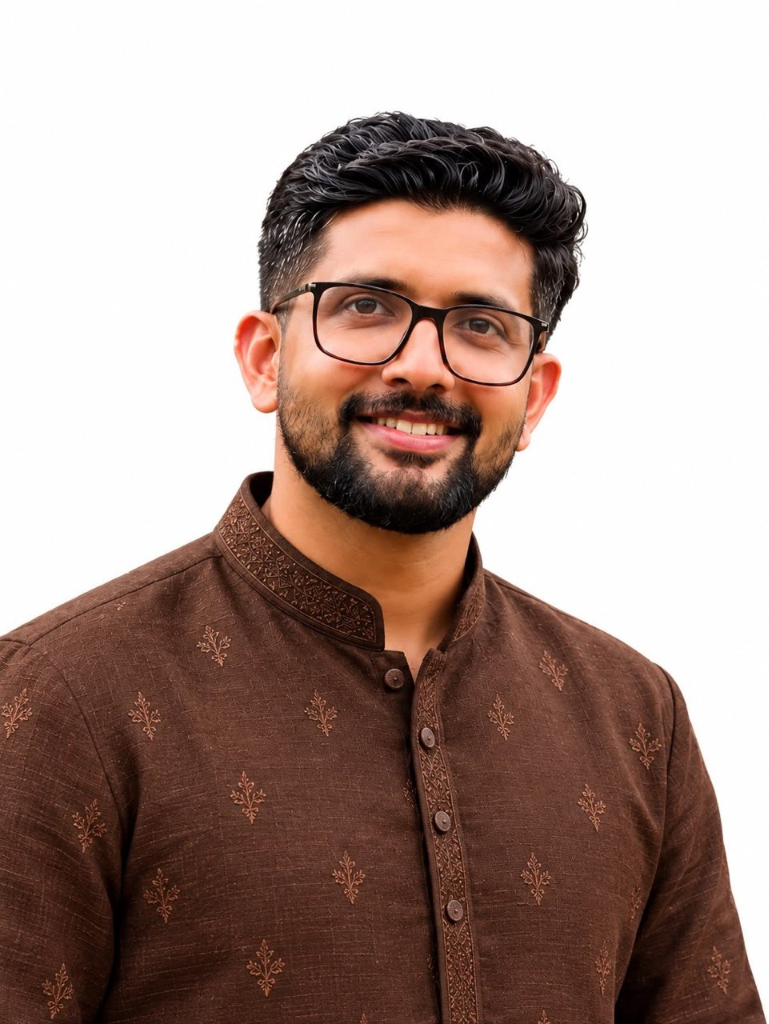
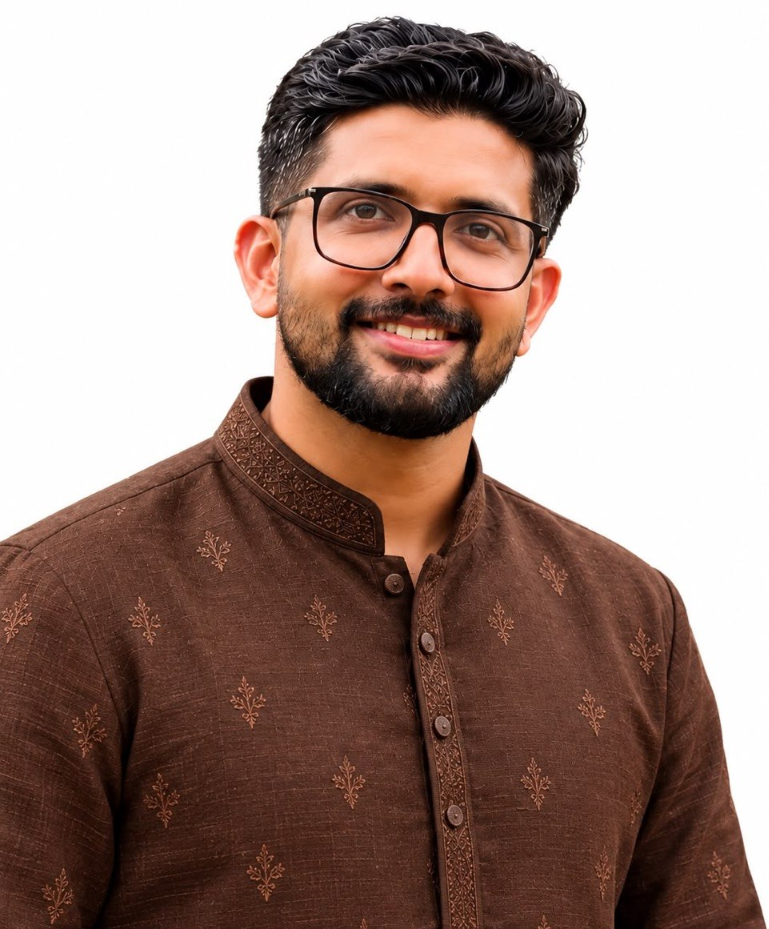
Update cover title to Wedding Reception Invitation, adjust groom photo alignment, unbold contact phone, and update Warmly Invited by to Athul & Midhula

diff --git a/index.html b/index.html
@@ -3,10 +3,10 @@
   <head>
     <meta charset="UTF-8" />
     <meta name="viewport" content="width=device-width, initial-scale=1.0, viewport-fit=cover" />
-    <title>Athul Krishna &amp; Midhula Balan · Wedding Invitation</title>
+    <title>Athul Krishna &amp; Midhula Balan · Wedding Reception Invitation</title>
     <meta
       name="description"
-      content="Late. Shri. Radhakrishnan T &amp; Smt. Mini K M cordially invite you to celebrate the marriage and reception of Athul Krishna with Midhula Balan on 5 &amp; 6 December 2026."
+      content="Athul Krishna &amp; Midhula Balan cordially invite you to celebrate their wedding reception on 06 December 2026 at Kozhikode."
     />
     <link rel="icon" type="image/x-icon" href="/favicon.ico" />
     <link rel="preconnect" href="https://fonts.googleapis.com" />
@@ -18,28 +18,28 @@
 
     <!-- Open Graph / WhatsApp / Facebook -->
     <meta property="og:type" content="website" />
-    <meta property="og:title" content="Athul Krishna &amp; Midhula Balan · Wedding Invitation" />
+    <meta property="og:title" content="Athul Krishna &amp; Midhula Balan · Wedding Reception Invitation" />
     <meta
       property="og:description"
-      content="Late. Shri. Radhakrishnan T &amp; Smt. Mini K M cordially invite you to celebrate the marriage and reception of Athul Krishna with Midhula Balan on 5 &amp; 6 December 2026."
+      content="Athul Krishna &amp; Midhula Balan cordially invite you to celebrate their wedding reception on 06 December 2026 at Kozhikode."
     />
     <meta property="og:image" content="/og-image.png" />
     <meta property="og:image:secure_url" content="/og-image.png" />
     <meta property="og:image:type" content="image/png" />
     <meta property="og:image:width" content="1200" />
     <meta property="og:image:height" content="630" />
-    <meta property="og:image:alt" content="Athul Krishna &amp; Midhula Balan Wedding Invitation" />
+    <meta property="og:image:alt" content="Athul Krishna &amp; Midhula Balan Wedding Reception Invitation" />
     <meta property="og:site_name" content="InviteStory" />
 
     <!-- Twitter / X -->
     <meta name="twitter:card" content="summary_large_image" />
-    <meta name="twitter:title" content="Athul Krishna &amp; Midhula Balan · Wedding Invitation" />
+    <meta name="twitter:title" content="Athul Krishna &amp; Midhula Balan · Wedding Reception Invitation" />
     <meta
       name="twitter:description"
-      content="Late. Shri. Radhakrishnan T &amp; Smt. Mini K M cordially invite you to celebrate the marriage and reception of Athul Krishna with Midhula Balan on 5 &amp; 6 December 2026."
+      content="Athul Krishna &amp; Midhula Balan cordially invite you to celebrate their wedding reception on 06 December 2026 at Kozhikode."
     />
     <meta name="twitter:image" content="/og-image.png" />
-    <meta name="twitter:image:alt" content="Athul Krishna &amp; Midhula Balan Wedding Invitation" />
+    <meta name="twitter:image:alt" content="Athul Krishna &amp; Midhula Balan Wedding Reception Invitation" />
   </head>
   <body>
     <div id="root"></div>

diff --git a/src/routes/__root.tsx b/src/routes/__root.tsx
@@ -77,31 +77,31 @@ export const Route = createRootRouteWithContext<{ queryClient: QueryClient }>()(
     meta: [
       { charSet: "utf-8" },
       { name: "viewport", content: "width=device-width, initial-scale=1" },
-      { title: "Athul Krishna & Midhula Balan · Wedding Invitation" },
+      { title: "Athul Krishna & Midhula Balan · Wedding Reception Invitation" },
       {
         name: "description",
         content:
-          "Late. Shri. Radhakrishnan T & Smt. Mini K M cordially invite you to celebrate the marriage and reception of Athul Krishna with Midhula Balan on 5 & 6 December 2026.",
+          "Athul Krishna & Midhula Balan cordially invite you to celebrate their wedding reception on 06 December 2026 at Kozhikode.",
       },
       { name: "author", content: "InviteStory" },
-      { property: "og:title", content: "Athul Krishna & Midhula Balan · Wedding Invitation" },
+      { property: "og:title", content: "Athul Krishna & Midhula Balan · Wedding Reception Invitation" },
       {
         property: "og:description",
         content:
-          "Late. Shri. Radhakrishnan T & Smt. Mini K M cordially invite you to celebrate the marriage and reception of Athul Krishna with Midhula Balan on 5 & 6 December 2026.",
+          "Athul Krishna & Midhula Balan cordially invite you to celebrate their wedding reception on 06 December 2026 at Kozhikode.",
       },
       { property: "og:type", content: "website" },
       { property: "og:image", content: "/og-image.png" },
       { property: "og:image:width", content: "1200" },
       { property: "og:image:height", content: "630" },
-      { property: "og:image:alt", content: "Athul Krishna & Midhula Balan Wedding Invitation" },
+      { property: "og:image:alt", content: "Athul Krishna & Midhula Balan Wedding Reception Invitation" },
       { name: "twitter:card", content: "summary_large_image" },
       { name: "twitter:site", content: "@invitestory.in" },
-      { name: "twitter:title", content: "Athul Krishna & Midhula Balan · Wedding Invitation" },
+      { name: "twitter:title", content: "Athul Krishna & Midhula Balan · Wedding Reception Invitation" },
       {
         name: "twitter:description",
         content:
-          "Late. Shri. Radhakrishnan T & Smt. Mini K M cordially invite you to celebrate the marriage and reception of Athul Krishna with Midhula Balan on 5 & 6 December 2026.",
+          "Athul Krishna & Midhula Balan cordially invite you to celebrate their wedding reception on 06 December 2026 at Kozhikode.",
       },
       { name: "twitter:image", content: "/og-image.png" },
 

diff --git a/src/components/wedding/Footer.tsx b/src/components/wedding/Footer.tsx
@@ -53,11 +53,9 @@ export function Footer() {
             <p className="text-gold-soft/80 text-[0.62rem] tracking-[0.35em] uppercase font-medium">
               Warmly Invited by
             </p>
-            <p className="text-ivory font-display mt-2 text-xl font-light">
-              {wedding.hosts.names}
-            </p>
-            <p className="text-ivory/65 mt-1.5 text-xs max-w-xs mx-auto leading-relaxed">
-              {wedding.hosts.address}
+            <p className="text-ivory font-display mt-2 text-2xl sm:text-3xl font-light">
+              {wedding.groom.name} <span className="font-script text-gold">&amp;</span>{" "}
+              {wedding.bride.name}
             </p>
 
             <div className="mt-5 flex items-center justify-center gap-3">
@@ -78,27 +76,14 @@ export function Footer() {
                 <span>WhatsApp</span>
               </a>
             </div>
-
-            <div className="mt-5 pt-4 border-t border-gold/15">
-              <p className="text-gold-soft/80 text-[0.58rem] tracking-[0.35em] uppercase">
-                Sharing Happiness
-              </p>
-              <p className="text-ivory font-display mt-1 text-base font-light">
-                {wedding.sharingHappiness}
-              </p>
-            </div>
           </div>
         </Reveal>
 
-        {/* Names & Signature */}
+        {/* Date & Location Footer */}
         <Reveal delay={0.2}>
-          <div className="mt-10 flex flex-col items-center">
+          <div className="mt-8 flex flex-col items-center">
             <span className="rule-gold w-28" />
-            <p className="text-ivory font-display mt-6 text-3xl font-light">
-              {wedding.groom.name} <span className="font-script text-gold">&amp;</span>{" "}
-              {wedding.bride.name}
-            </p>
-            <p className="text-ivory/60 mt-2 text-[0.62rem] tracking-[0.35em] uppercase">
+            <p className="text-ivory/60 mt-4 text-[0.62rem] tracking-[0.35em] uppercase">
               06 December 2026 · Kozhikode, Kerala
             </p>
           </div>

diff --git a/src/components/wedding/Couple.tsx b/src/components/wedding/Couple.tsx
@@ -70,7 +70,7 @@ export function Couple() {
                   {/* Contact */}
                   <a
                     href={`tel:${wedding.groom.phone}`}
-                    className="text-primary hover:text-gold mt-3 inline-flex items-center gap-1.5 text-xs font-medium transition-colors"
+                    className="text-primary hover:text-gold mt-3 inline-flex items-center gap-1.5 text-xs font-normal transition-colors"
                   >
                     <Phone className="text-gold h-3.5 w-3.5" />
                     <span>Ph: {wedding.groom.phoneDisplay}</span>

diff --git a/src/routes/index.tsx b/src/routes/index.tsx
@@ -12,7 +12,7 @@ import { ScrollProgress } from "@/components/wedding/ScrollProgress";
 
 const title = "Athul with Midhula · Wedding Reception Invitation";
 const description =
-  "Late. Shri. Radhakrishnan T & Smt. Mini K M cordially invite you to celebrate the wedding reception of Athul with Midhula on 06 December 2026 at Kozhikode.";
+  "Athul Krishna & Midhula Balan cordially invite you to celebrate their wedding reception on 06 December 2026 at Kozhikode.";
 
 export const Route = createFileRoute("/")({
   head: () => ({

diff --git a/src/components/wedding/Opener.tsx b/src/components/wedding/Opener.tsx
@@ -64,7 +64,7 @@ export function Opener({ onOpen }: { onOpen: () => void }) {
           >
             <GaneshaIcon className="text-gold mb-3 h-8 w-8 drop-shadow-[0_2px_10px_rgba(234,179,8,0.35)]" />
             <span className="text-gold/80 text-[0.55rem] tracking-[0.5em] uppercase">
-              A wedding invitation
+              Wedding Reception Invitation
             </span>
             <h1 className="text-gold-foil font-display mt-4 text-5xl leading-none font-light sm:text-6xl">
               {wedding.groom.name}

diff --git a/src/components/wedding/data.ts b/src/components/wedding/data.ts
@@ -24,12 +24,12 @@ export const wedding = {
     image: "/images/bride-photo.png",
   },
   hosts: {
-    names: "Late. Shri. Radhakrishnan T & Smt. Mini K M",
-    address: "Abhayam House, Cheekkilode Post, Atholi, Kozhikode, 673315",
+    names: "Athul & Midhula",
+    address: "",
     phone: "8129913911",
     phoneDisplay: "+91 81299 13911",
   },
-  sharingHappiness: "Ayana, Jithin, Family & Friends",
+  sharingHappiness: "",
 
   // Primary event date (Wedding Reception)
   dateISO: "2026-12-06T16:00:00+05:30",
